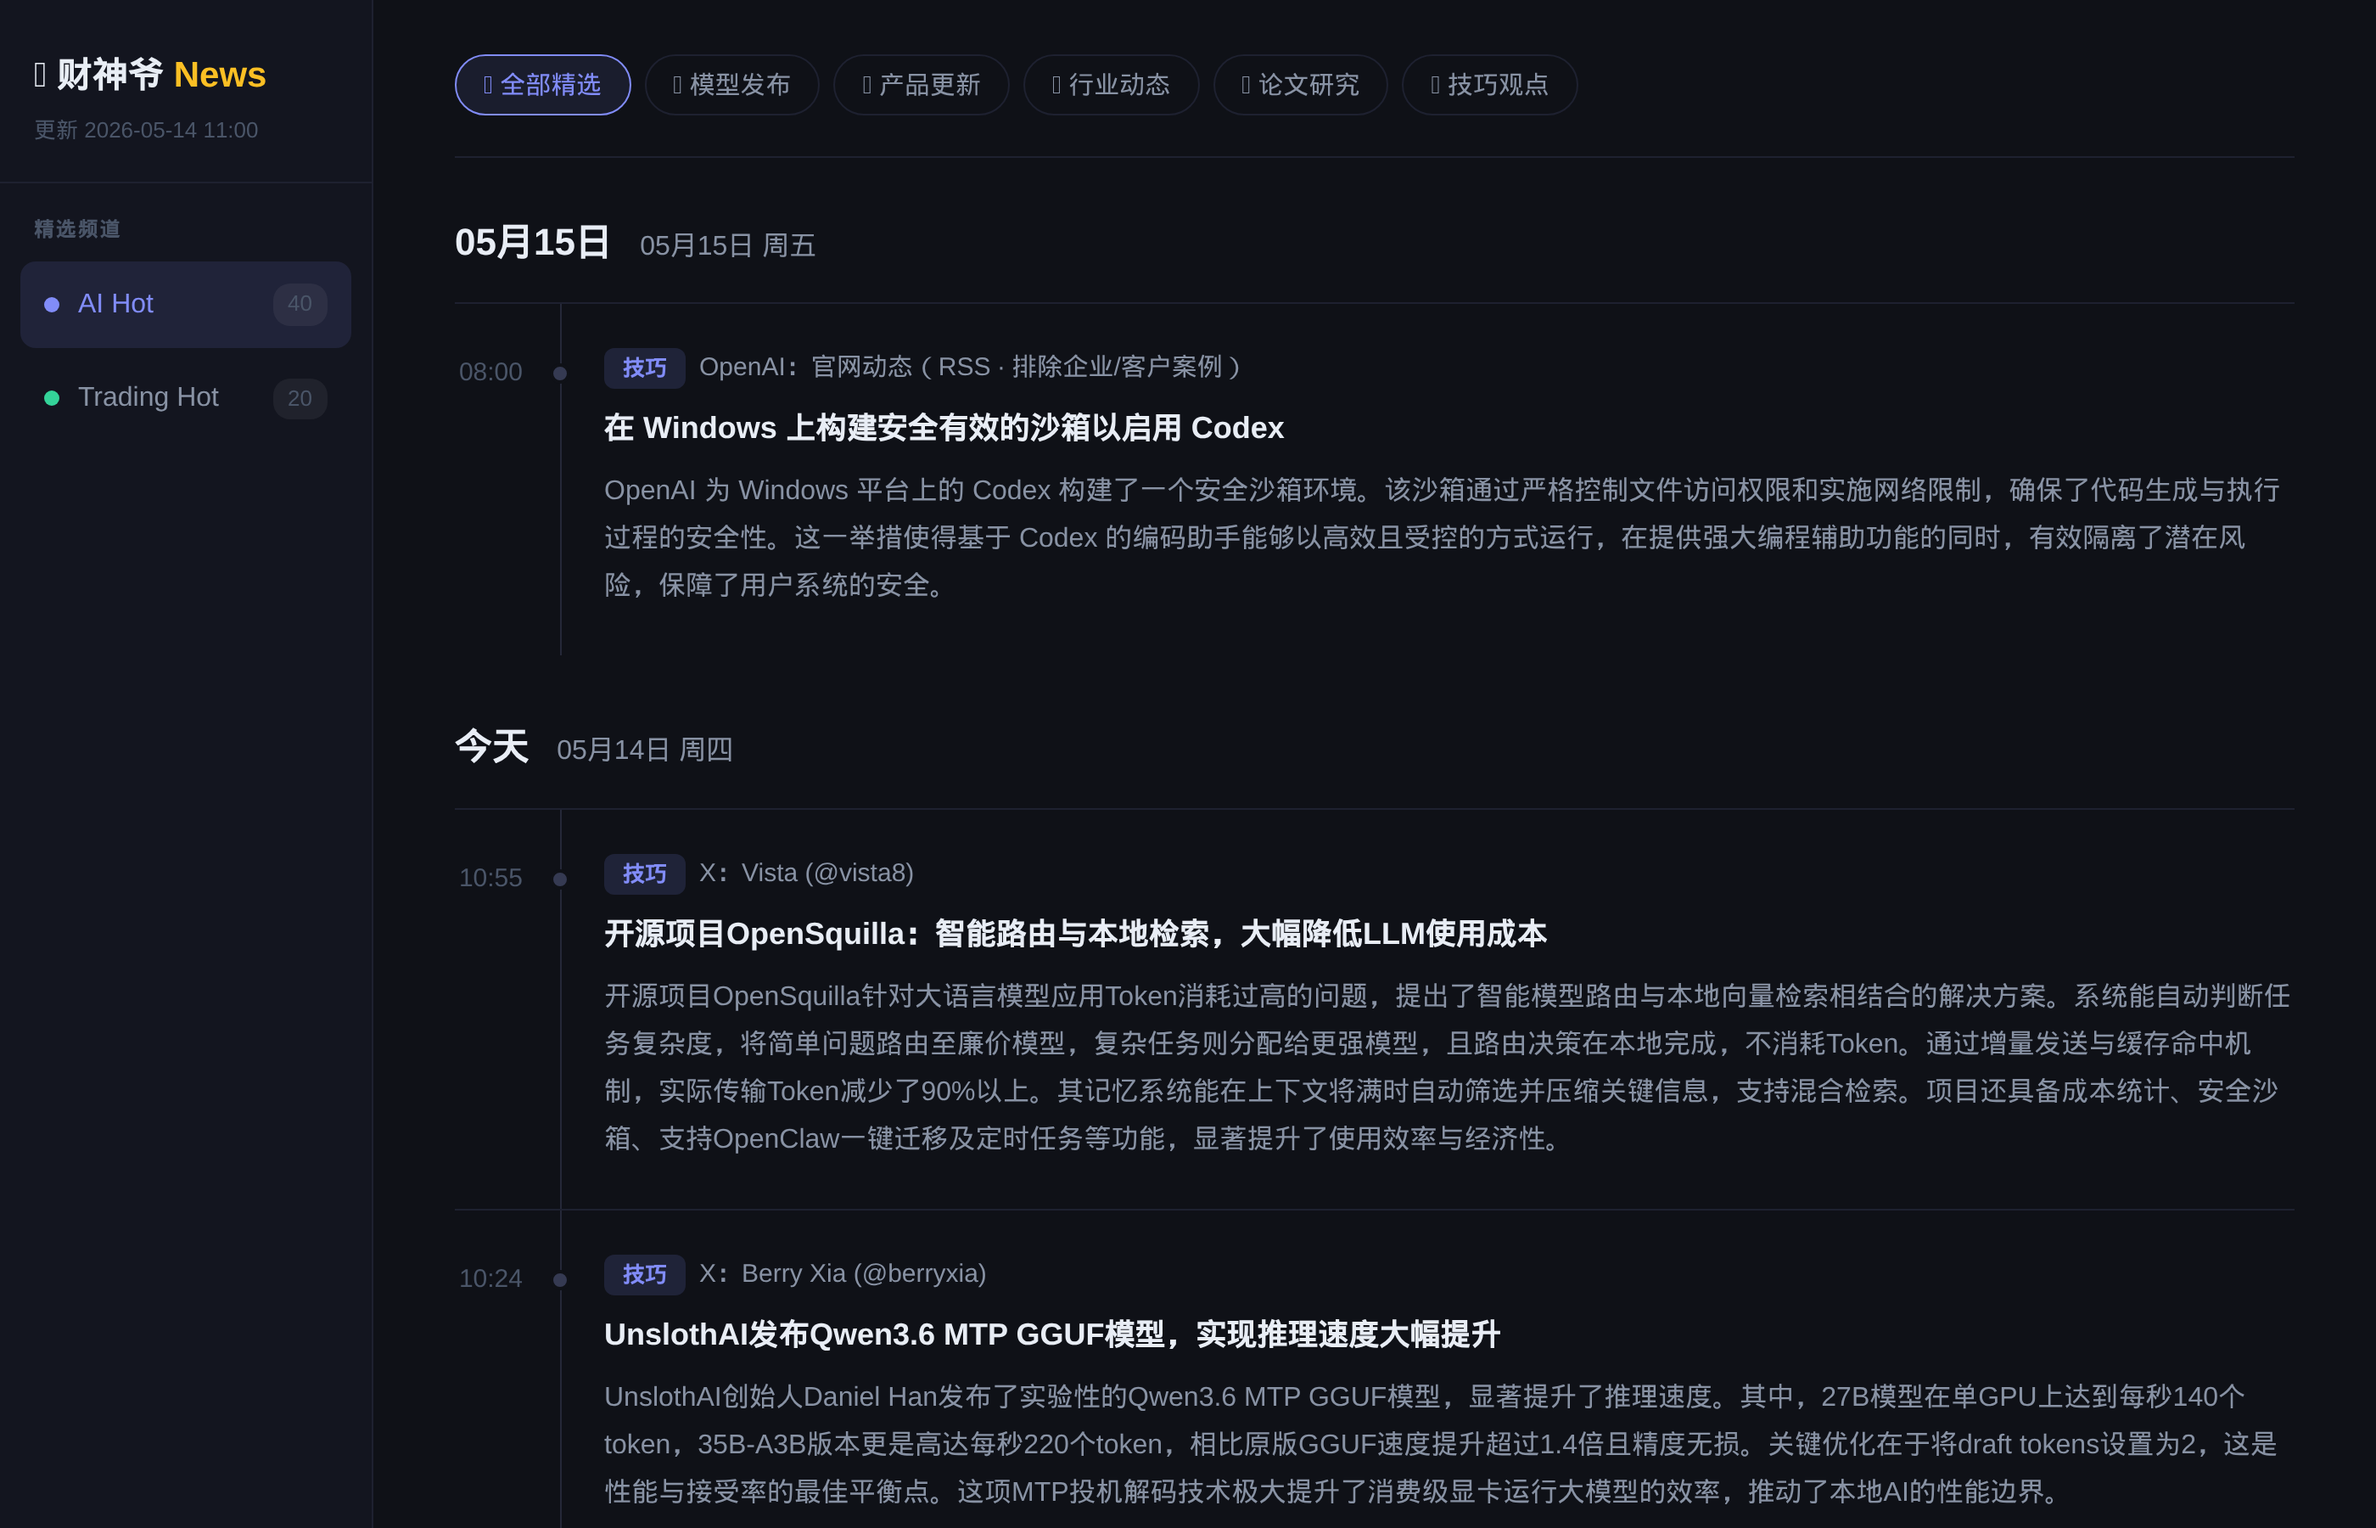
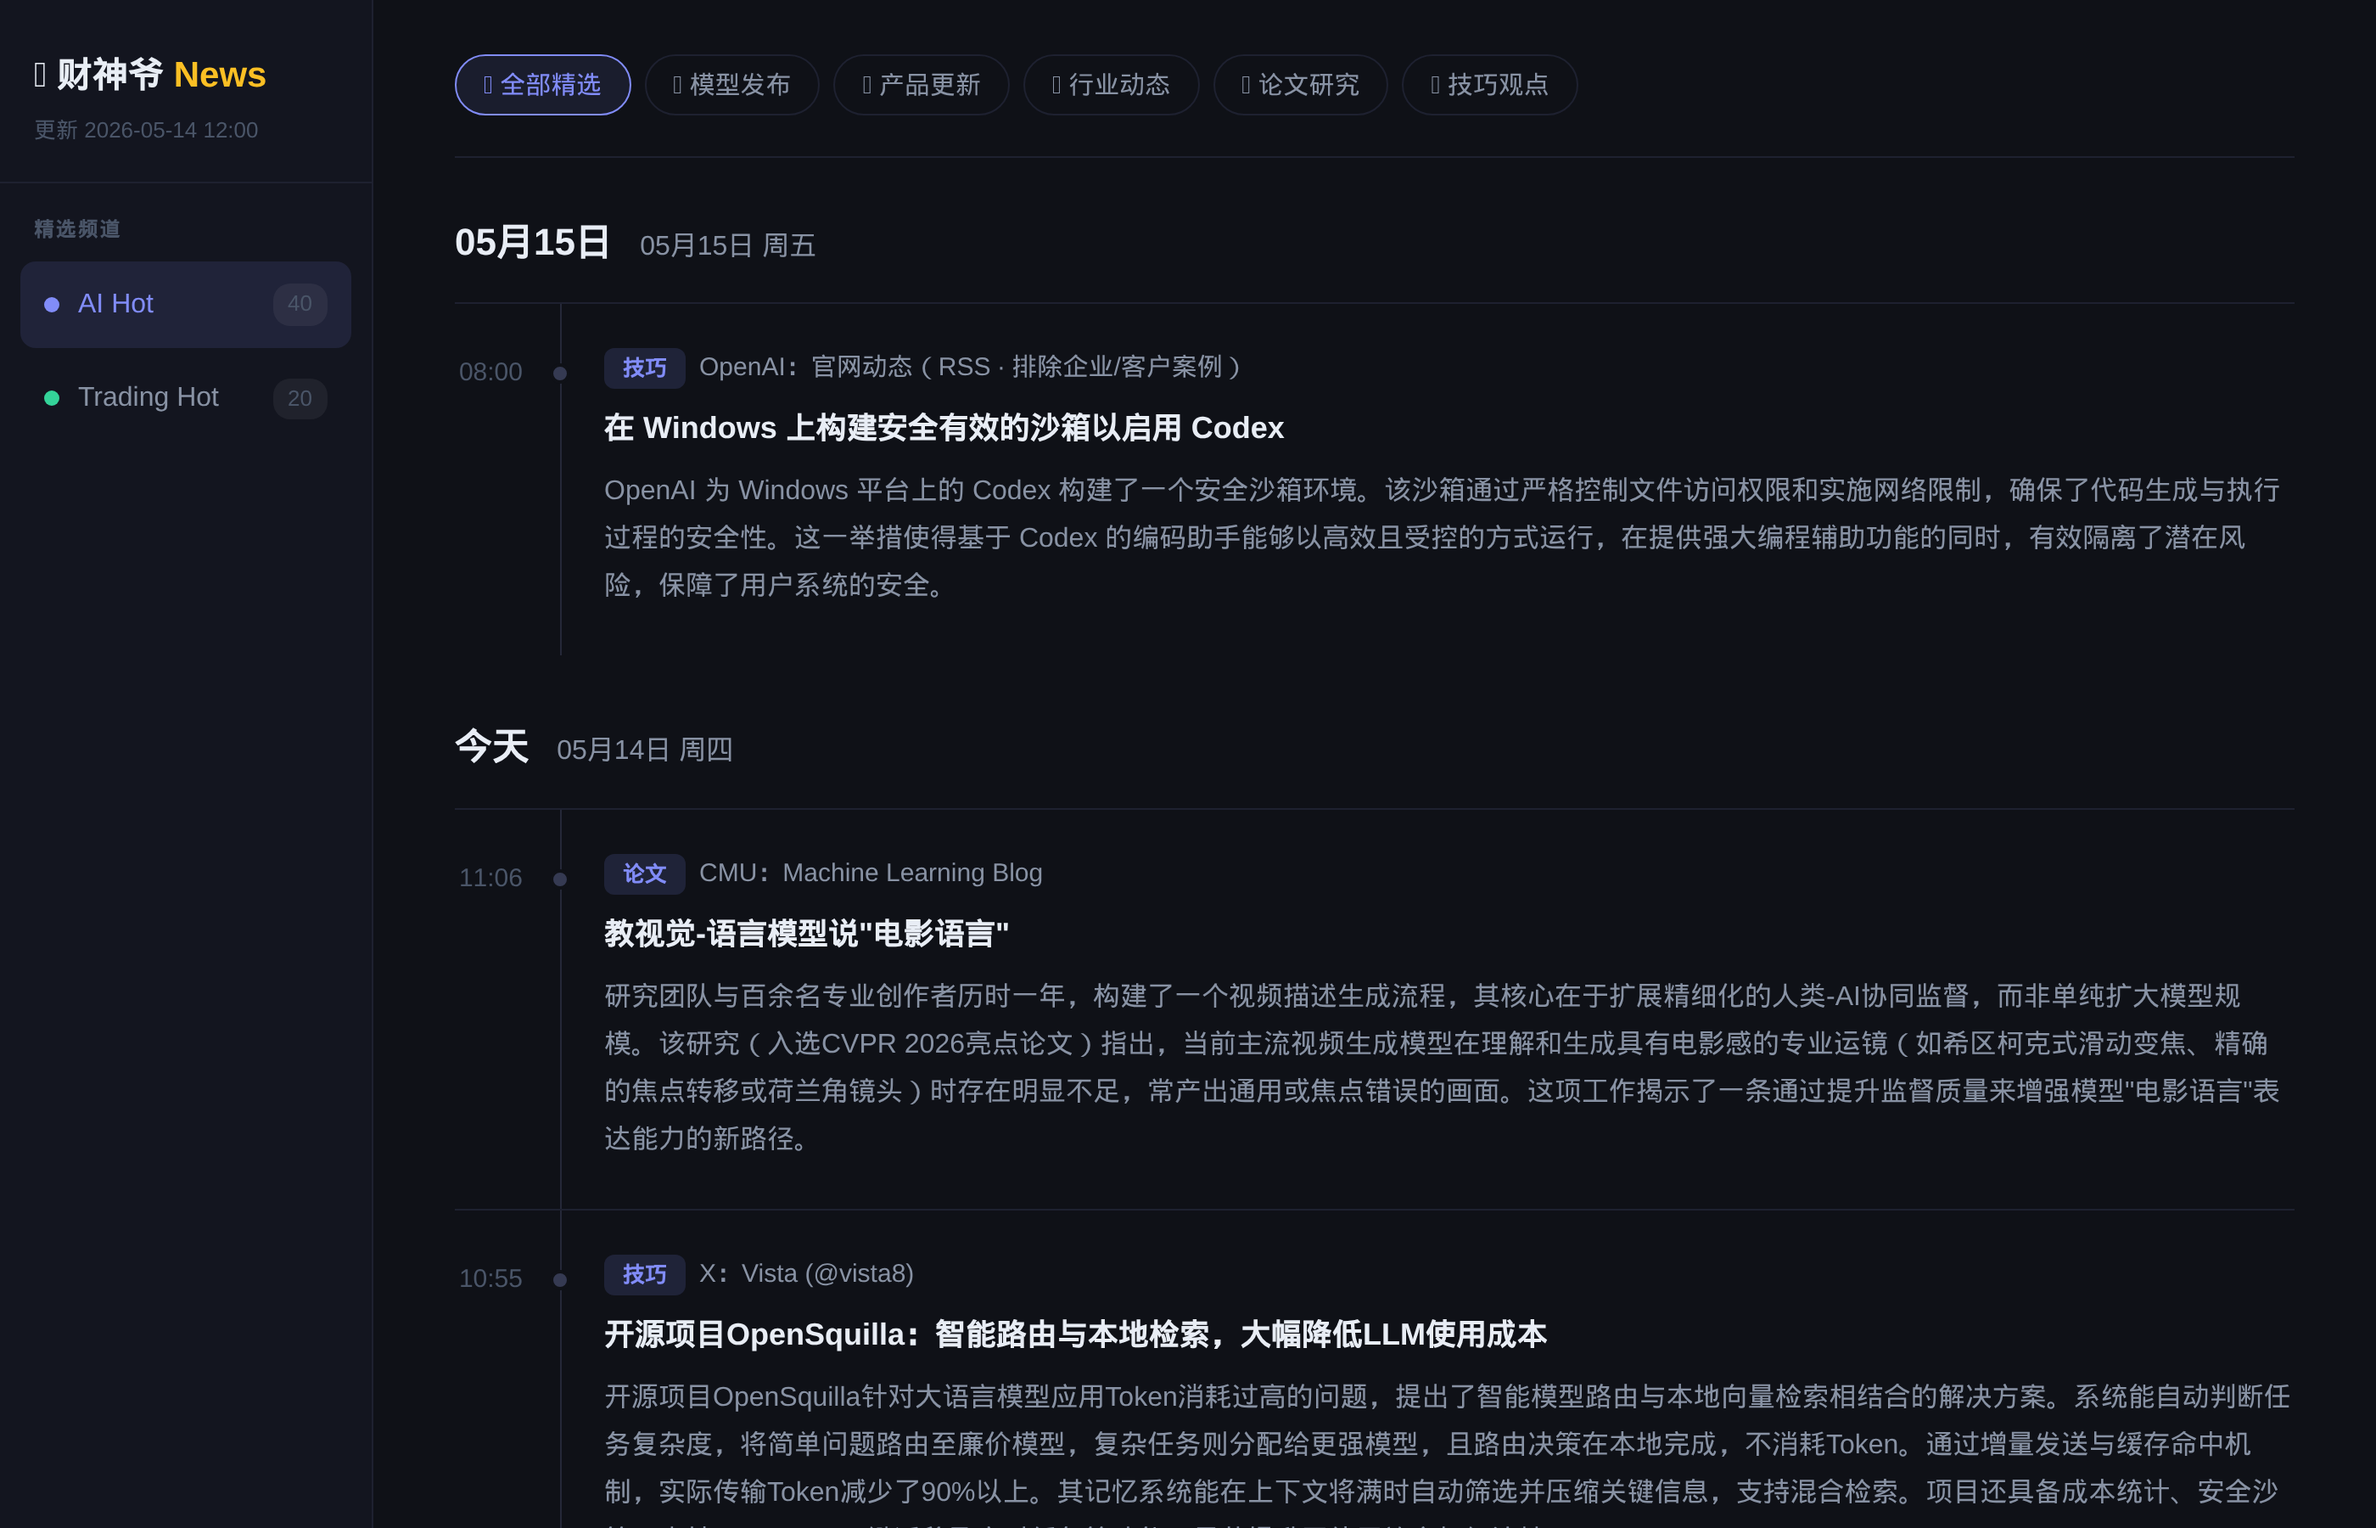
auto update 2026-05-14 12:01

Changed region(s): [[0.2486, 0.56, 0.9632, 0.7778], [0.2486, 0.8089, 0.9632, 0.9956]]

diff --git a/index.html b/index.html
@@ -106,7 +106,7 @@ body{font-family:-apple-system,BlinkMacSystemFont,"Segoe UI","PingFang SC","Micr
 <body>
 <aside class="sb">
   <div class="sb-logo">💰 财神爷 <span>News</span>
-    <div class="sb-up">更新 2026-05-14 11:00</div>
+    <div class="sb-up">更新 2026-05-14 12:00</div>
   </div>
   <nav class="sb-nav">
     <div class="nav-lbl">精选频道</div>
@@ -137,12 +137,30 @@ body{font-family:-apple-system,BlinkMacSystemFont,"Segoe UI","PingFang SC","Micr
     <div class="dgroup">
       <div class="dheader">今天 <span class='dsub'>05月14日 周四</span></div>
       <div class="ilist">
+      <div class="item" data-cats="paper">
+        <div class="item-time">11:06</div>
+        <div class="item-body">
+          <div class="item-meta"><span class="badge badge-ai">论文</span><span class="isrc">CMU：Machine Learning Blog</span></div>
+          <a class="item-title" href="https://blog.ml.cmu.edu/2026/05/13/teaching-vision-language-models-to-speak-cinema" target="_blank" rel="noopener">教视觉-语言模型说&quot;电影语言&quot;</a>
+          <div class="item-summary">研究团队与百余名专业创作者历时一年，构建了一个视频描述生成流程，其核心在于扩展精细化的人类-AI协同监督，而非单纯扩大模型规模。该研究（入选CVPR 2026亮点论文）指出，当前主流视频生成模型在理解和生成具有电影感的专业运镜（如希区柯克式滑动变焦、精确的焦点转移或荷兰角镜头）时存在明显不足，常产出通用或焦点错误的画面。这项工作揭示了一条通过提升监督质量来增强模型&quot;电影语言&quot;表达能力的新路径。</div>
+        </div>
+      </div>
+
       <div class="item" data-cats="tip">
         <div class="item-time">10:55</div>
         <div class="item-body">
           <div class="item-meta"><span class="badge badge-ai">技巧</span><span class="isrc">X：Vista (@vista8)</span></div>
           <a class="item-title" href="https://x.com/vista8/status/2054757474100760626" target="_blank" rel="noopener">开源项目OpenSquilla：智能路由与本地检索，大幅降低LLM使用成本</a>
           <div class="item-summary">开源项目OpenSquilla针对大语言模型应用Token消耗过高的问题，提出了智能模型路由与本地向量检索相结合的解决方案。系统能自动判断任务复杂度，将简单问题路由至廉价模型，复杂任务则分配给更强模型，且路由决策在本地完成，不消耗Token。通过增量发送与缓存命中机制，实际传输Token减少了90%以上。其记忆系统能在上下文将满时自动筛选并压缩关键信息，支持混合检索。项目还具备成本统计、安全沙箱、支持OpenClaw一键迁移及定时任务等功能，显著提升了使用效率与经济性。</div>
+        </div>
+      </div>
+
+      <div class="item" data-cats="paper">
+        <div class="item-time">10:48</div>
+        <div class="item-body">
+          <div class="item-meta"><span class="badge badge-ai">论文</span><span class="isrc">X：硅基流动 SiliconFlow (@SiliconFlowAI)</span></div>
+          <a class="item-title" href="https://x.com/SiliconFlowAI/status/2054755824309076359" target="_blank" rel="noopener">NousResearch推出Token Superposition Training技术，显著加速大语言模型预训练</a>
+          <div class="item-summary">NousResearch发布了Token Superposition Training（TST），这是一种改进标准大语言模型预训练流程的方法。该技术无需改变模型架构、优化器、分词器或训练数据，即可在相同计算量（FLOPs）下实现2-3倍的训练时间加速。其核心是在训练的前三分之一阶段，让模型读取并预测连续的token包，对输入嵌入进行平均，并使用改进的交叉熵损失预测下一个token包；剩余训练时间则恢复为标准的下一个token预测。推理阶段的模型与传统预训练产生的模型完全相同。</div>
         </div>
       </div>
 
@@ -528,26 +546,6 @@ https：//suno.com/playlist/a255cf6d-bb99-4c1f-aedd-8d584579bddb</div>
           <div class="item-summary">BenchLoop 提供了一套对本地大模型进行基准测试的标准化流程。用户只需拉取模型并运行该工具，即可实时获取模型在质量、速度和可靠性方面的综合评分。平台支持对比不同提示框架（如原生模式与 Hermes 模式）下的性能表现。测试完成后，结果可自动发布至公开排行榜，便于横向比较不同模型的优劣。</div>
         </div>
       </div>
-
-      <div class="item" data-cats="ai-products">
-        <div class="item-time">09:26</div>
-        <div class="item-body">
-          <div class="item-meta"><span class="badge badge-ai">产品</span><span class="isrc">X：阿里云 / Alibaba Cloud (@alibaba_cloud)</span></div>
-          <a class="item-title" href="https://x.com/alibaba_cloud/status/2054372732234797342" target="_blank" rel="noopener">AI未来原生智能体 Qwen 3.6 Plus限免</a>
-          <div class="item-summary">AI的未来是智能体原生的。
-很高兴能与Hermes Agent及@NousResearch社区共同开启这段旅程。
-Qwen 3.6 Plus现于Nous Portal限时免费--快来尝试吧。⚡</div>
-        </div>
-      </div>
-
-      <div class="item" data-cats="ai-products">
-        <div class="item-time">08:39</div>
-        <div class="item-body">
-          <div class="item-meta"><span class="badge badge-ai">产品</span><span class="isrc">X：邵猛 (@shao__meng)</span></div>
-          <a class="item-title" href="https://x.com/shao__meng/status/2054360963571446232" target="_blank" rel="noopener">Google 发布首款 AI 优先笔记本 Googlebook，集成 Gemini 智能</a>
-          <div class="item-summary">Google 正式推出首款为 Gemini Intelligence 设计的笔记本 Googlebook，标志着从&quot;云优先&quot;的 Chromebook 时代进入&quot;AI 优先&quot;新阶段。其核心创新包括：Magic Pointer 将系统光标变为 AI 交互入口，可直接触发上下文建议与任务；Create Your Widget 允许通过自然语言生成聚合多源信息的动态桌面小组件；深度整合 Android 生态，实现手机 App 无缝调用与文件跨设备快速访问。该产品以 Gemini 为核</div>
-        </div>
-      </div>
       </div>
     </div>
   </div>
@@ -556,7 +554,7 @@ Qwen 3.6 Plus现于Nous Portal限时免费--快来尝试吧。⚡</div>
         <div class="dgroup">
       <div class="dheader">昨天 <span class='dsub'>05月13日 周三</span></div>
       <div class="ilist">
-      <div class="item" data-cats="crypto top">
+      <div class="item" data-cats="top crypto">
         <div class="item-time">04:56</div>
         <div class="item-body">
           <div class="item-meta"><span class="badge badge-trading">加密</span><span class="score-badge">72分</span><span class="isrc">The Block</span><span class="ticker">$C</span><span class="ticker">$COIN</span></div>
@@ -566,7 +564,7 @@ Qwen 3.6 Plus现于Nous Portal限时免费--快来尝试吧。⚡</div>
         </div>
       </div>
 
-      <div class="item" data-cats="top macro">
+      <div class="item" data-cats="macro top">
         <div class="item-time">04:55</div>
         <div class="item-body">
           <div class="item-meta"><span class="badge badge-trading">宏观利率</span><span class="score-badge">77分</span><span class="isrc">华尔街见闻</span></div>
@@ -576,7 +574,7 @@ Qwen 3.6 Plus现于Nous Portal限时免费--快来尝试吧。⚡</div>
         </div>
       </div>
 
-      <div class="item" data-cats="crypto top ai_tech">
+      <div class="item" data-cats="top ai_tech crypto">
         <div class="item-time">04:46</div>
         <div class="item-body">
           <div class="item-meta"><span class="badge badge-trading">加密</span><span class="score-badge">68分</span><span class="isrc">Decrypt</span><span class="ticker">$F</span></div>
@@ -616,7 +614,7 @@ Qwen 3.6 Plus现于Nous Portal限时免费--快来尝试吧。⚡</div>
         </div>
       </div>
 
-      <div class="item" data-cats="geo top">
+      <div class="item" data-cats="top geo">
         <div class="item-time">04:14</div>
         <div class="item-body">
           <div class="item-meta"><span class="badge badge-trading">市场异动</span><span class="score-badge">67分</span><span class="isrc">华尔街见闻</span></div>
@@ -626,7 +624,7 @@ Qwen 3.6 Plus现于Nous Portal限时免费--快来尝试吧。⚡</div>
         </div>
       </div>
 
-      <div class="item" data-cats="crypto top ai_tech">
+      <div class="item" data-cats="top ai_tech crypto">
         <div class="item-time">03:45</div>
         <div class="item-body">
           <div class="item-meta"><span class="badge badge-trading">加密</span><span class="score-badge">69分</span><span class="isrc">Decrypt</span><span class="ticker">$BTC</span><span class="ticker">$MARA</span></div>
@@ -646,7 +644,7 @@ Qwen 3.6 Plus现于Nous Portal限时免费--快来尝试吧。⚡</div>
         </div>
       </div>
 
-      <div class="item" data-cats="geo top">
+      <div class="item" data-cats="top geo">
         <div class="item-time">02:43</div>
         <div class="item-body">
           <div class="item-meta"><span class="badge badge-trading">市场异动</span><span class="score-badge">72分</span><span class="isrc">CNBC Top News</span><span class="ticker">$C</span></div>
@@ -666,7 +664,7 @@ Qwen 3.6 Plus现于Nous Portal限时免费--快来尝试吧。⚡</div>
         </div>
       </div>
 
-      <div class="item" data-cats="geo top">
+      <div class="item" data-cats="top geo">
         <div class="item-time">02:11</div>
         <div class="item-body">
           <div class="item-meta"><span class="badge badge-trading">市场异动</span><span class="score-badge">72分</span><span class="isrc">CNBC Top News</span><span class="ticker">$C</span></div>
@@ -676,7 +674,7 @@ Qwen 3.6 Plus现于Nous Portal限时免费--快来尝试吧。⚡</div>
         </div>
       </div>
 
-      <div class="item" data-cats="geo top macro">
+      <div class="item" data-cats="macro top geo">
         <div class="item-time">02:10</div>
         <div class="item-body">
           <div class="item-meta"><span class="badge badge-trading">市场异动</span><span class="score-badge">72分</span><span class="isrc">CNBC Top News</span><span class="ticker">$C</span></div>
@@ -696,7 +694,7 @@ Qwen 3.6 Plus现于Nous Portal限时免费--快来尝试吧。⚡</div>
         </div>
       </div>
 
-      <div class="item" data-cats="top macro">
+      <div class="item" data-cats="macro top">
         <div class="item-time">01:33</div>
         <div class="item-body">
           <div class="item-meta"><span class="badge badge-trading">宏观利率</span><span class="score-badge">71分</span><span class="isrc">CNBC Markets</span><span class="ticker">$F</span></div>
@@ -716,7 +714,7 @@ Qwen 3.6 Plus现于Nous Portal限时免费--快来尝试吧。⚡</div>
         </div>
       </div>
 
-      <div class="item" data-cats="top macro">
+      <div class="item" data-cats="macro top">
         <div class="item-time">00:38</div>
         <div class="item-body">
           <div class="item-meta"><span class="badge badge-trading">市场异动</span><span class="score-badge">67分</span><span class="isrc">CNBC Top News</span><span class="ticker">$C</span><span class="ticker">$F</span></div>
@@ -740,7 +738,7 @@ Qwen 3.6 Plus现于Nous Portal限时免费--快来尝试吧。⚡</div>
         </div>
       </div>
 
-      <div class="item" data-cats="crypto top">
+      <div class="item" data-cats="top crypto">
         <div class="item-time">22:37</div>
         <div class="item-body">
           <div class="item-meta"><span class="badge badge-trading">加密</span><span class="score-badge">70分</span><span class="isrc">Decrypt</span><span class="ticker">$C</span></div>
@@ -750,7 +748,7 @@ Qwen 3.6 Plus现于Nous Portal限时免费--快来尝试吧。⚡</div>
         </div>
       </div>
 
-      <div class="item" data-cats="crypto top">
+      <div class="item" data-cats="top crypto">
         <div class="item-time">19:55</div>
         <div class="item-body">
           <div class="item-meta"><span class="badge badge-trading">加密</span><span class="score-badge">75分</span><span class="isrc">Decrypt</span><span class="ticker">$C</span></div>
